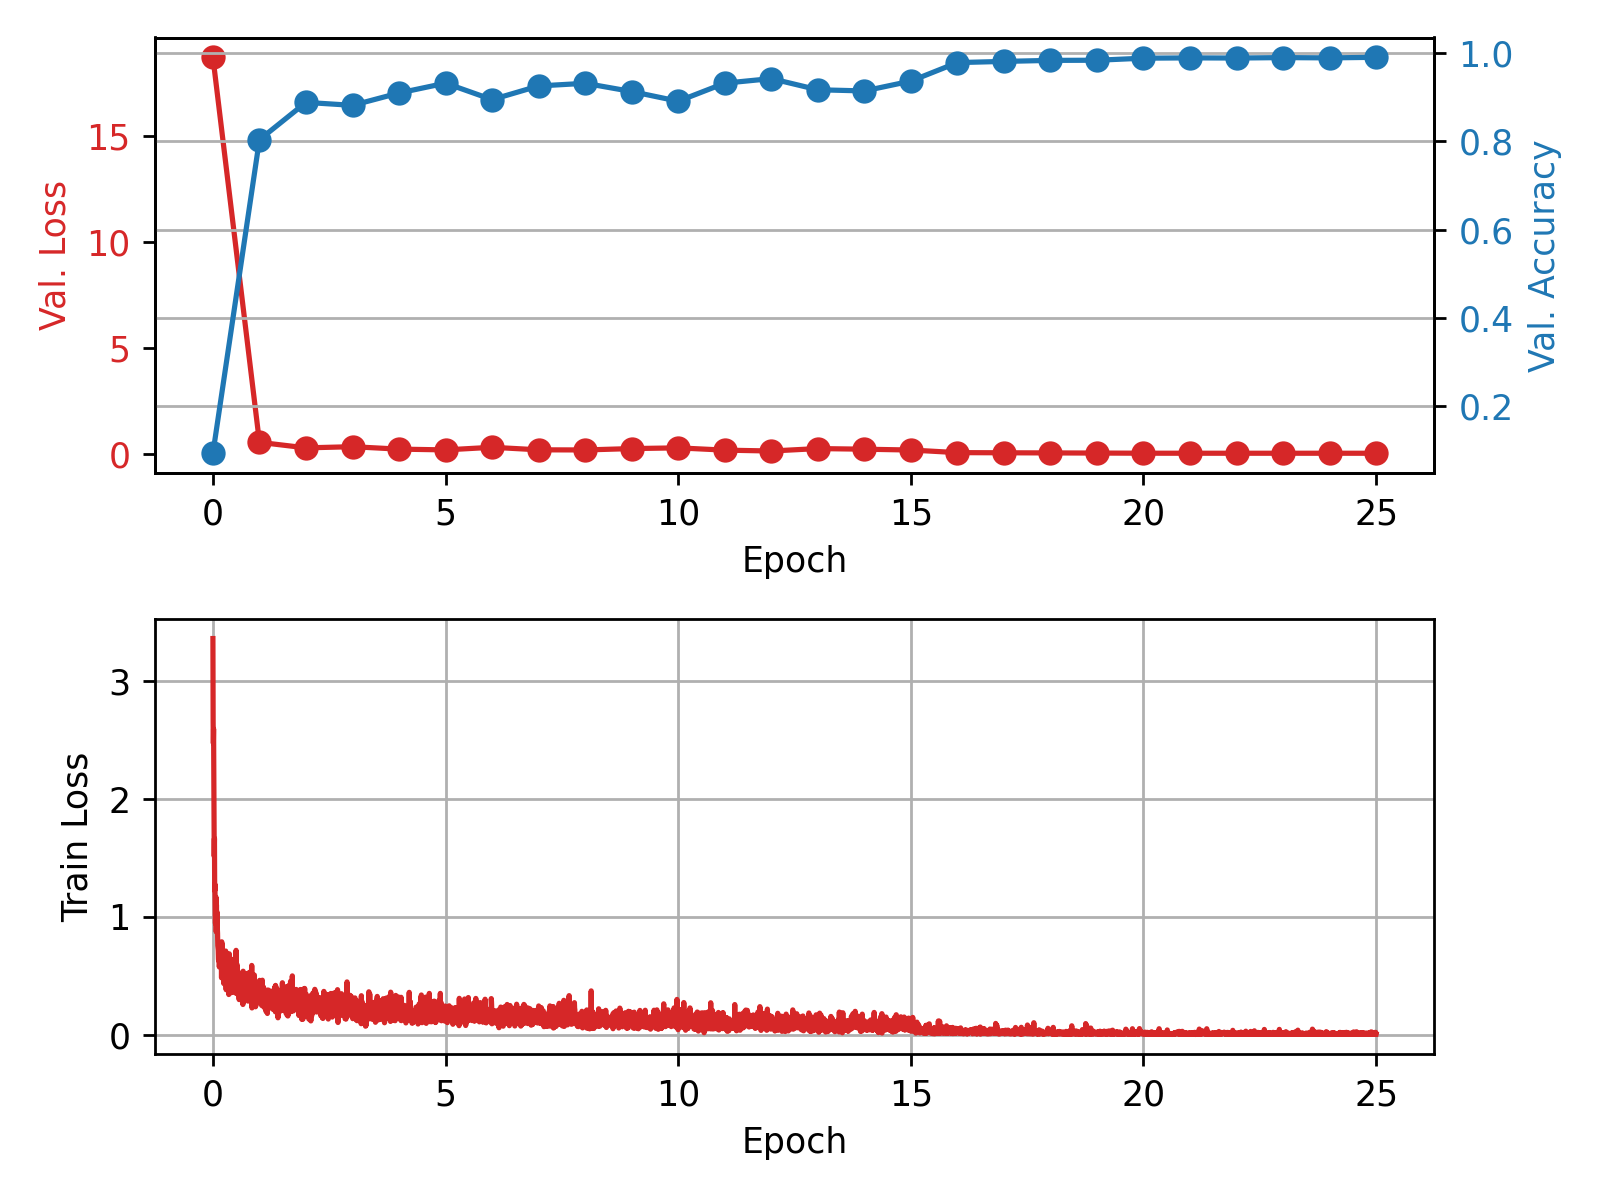
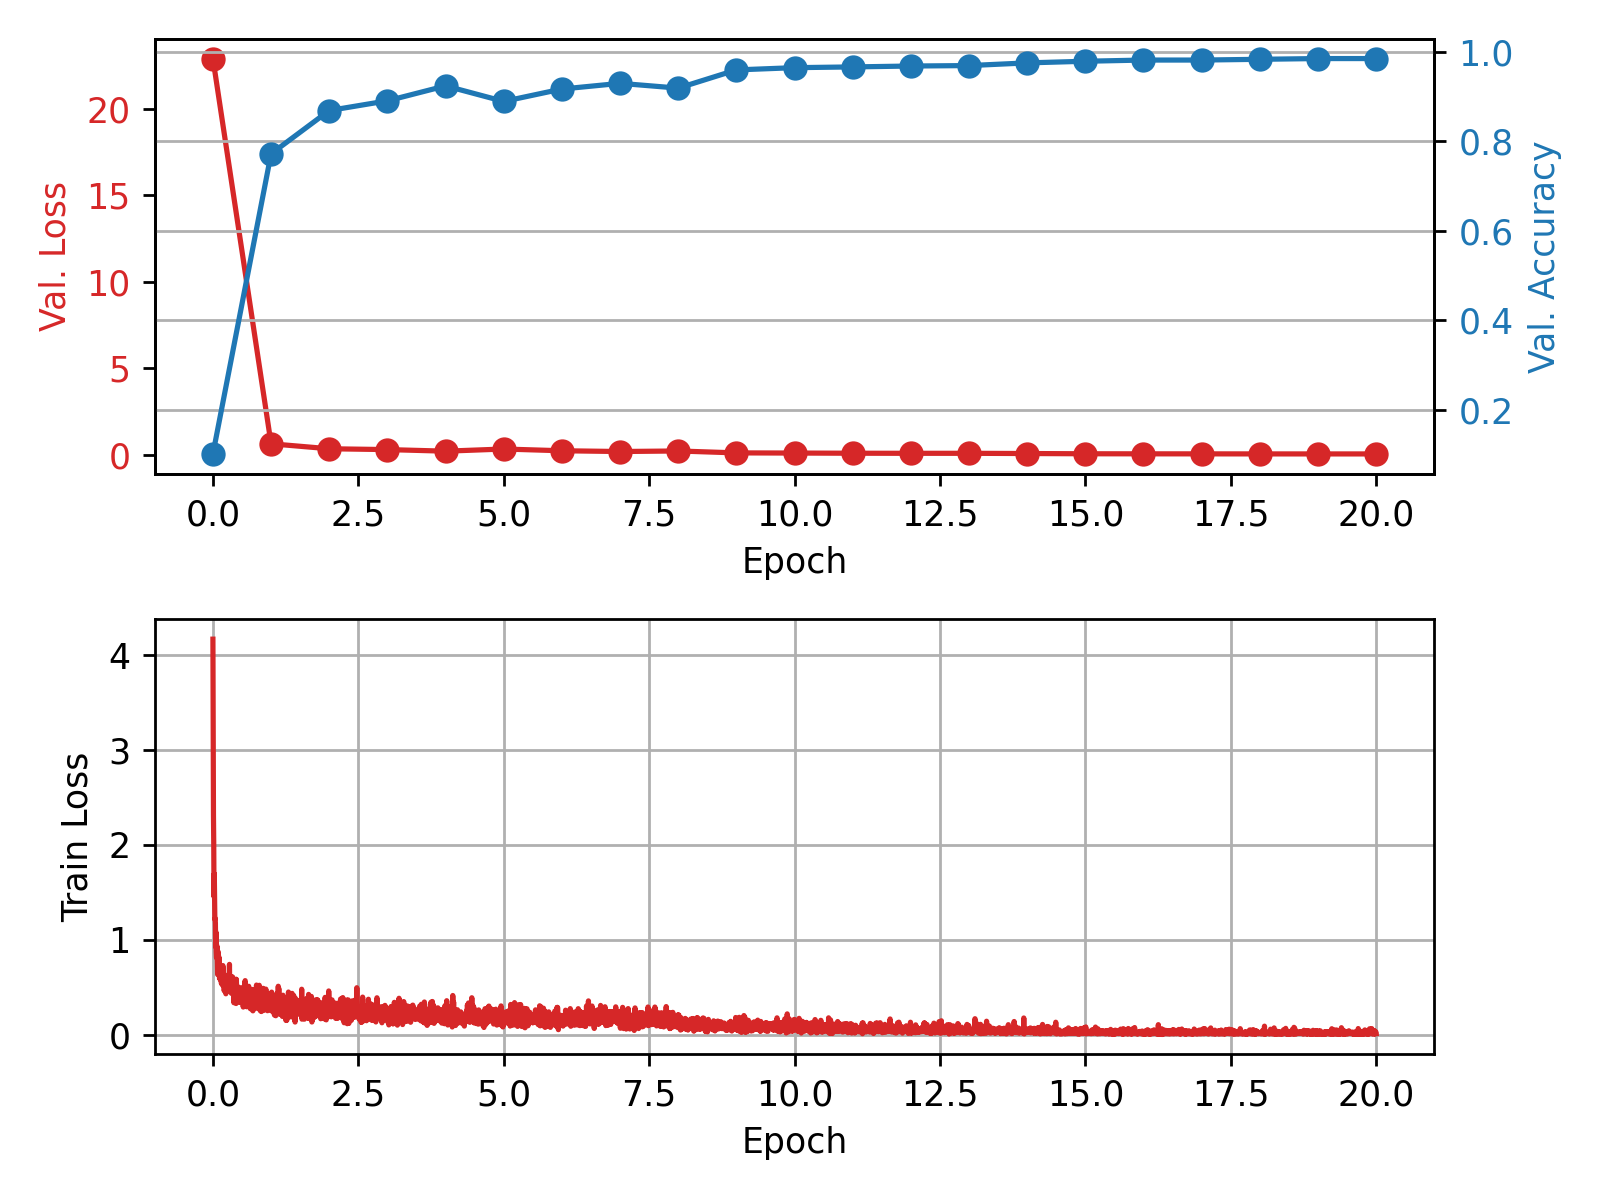
Made some changes to the optimizer

diff --git a/classifiers.py b/classifiers.py
@@ -22,15 +22,14 @@ class MNISTClassifier(pl.LightningModule):
         return x
 
     def configure_optimizers(self):
-        # return torch.optim.Adam(self.parameters(), lr=0.001) # use for ReddyNet
-        # return torch.optim.Adadelta(self.parameters())
+        optimizer = torch.optim.Adam(self.parameters(), lr=0.01)
 
-        optimizer = torch.optim.SGD(self.parameters(), lr=0.1,
-                                    momentum=0.9,
-                                    weight_decay=1e-4)
+        # optimizer = torch.optim.SGD(self.parameters(), lr=0.1,
+        #                             momentum=0.9,
+        #                             weight_decay=1e-4)
 
-        lr_scheduler = torch.optim.lr_scheduler.MultiStepLR(optimizer,
-                                                            milestones=[15, 20], last_epoch=0 - 1)
+        lr_scheduler = torch.optim.lr_scheduler.MultiStepLR(optimizer, milestones=[8, 15], last_epoch=-1)
+        # lr_scheduler = torch.optim.lr_scheduler.StepLR(optimizer, step_size=1, gamma=0.85)
         return [optimizer], [lr_scheduler]
 
     def training_step(self, batch, batch_idx):

diff --git a/test.py b/test.py
@@ -6,8 +6,8 @@ from resnet import resnet20
 from classifiers import MNISTClassifier
 import numpy as np
 
-# Path to that checkpoint you want to use for testing
-ckpt_path = "lightning_logs/version_2/checkpoints/epoch=24-step=5274.ckpt"
+# Path to the checkpoint you want to use for testing
+ckpt_path = "lightning_logs/version_0/checkpoints/epoch=24-step=5274.ckpt"
 
 # Crude way of determining if we're on CIS machine or laptop
 n_workers = 32 if torch.cuda.is_available() else 0
@@ -28,3 +28,5 @@ else:
     trainer = pl.Trainer(gpus=0)
 
 trainer.test(model=net, test_dataloaders=testloader)
+
+

diff --git a/fashionMNIST_train_test.py b/fashionMNIST_train_test.py
@@ -16,7 +16,7 @@ from utils import plot_results
 
 # Configuration
 batch_size = 128
-num_epochs = 25
+num_epochs = 20
 momentum = 0.9
 learning_rate = 0.001
 val_split = 0.1  # proportion of training data to use for validation
